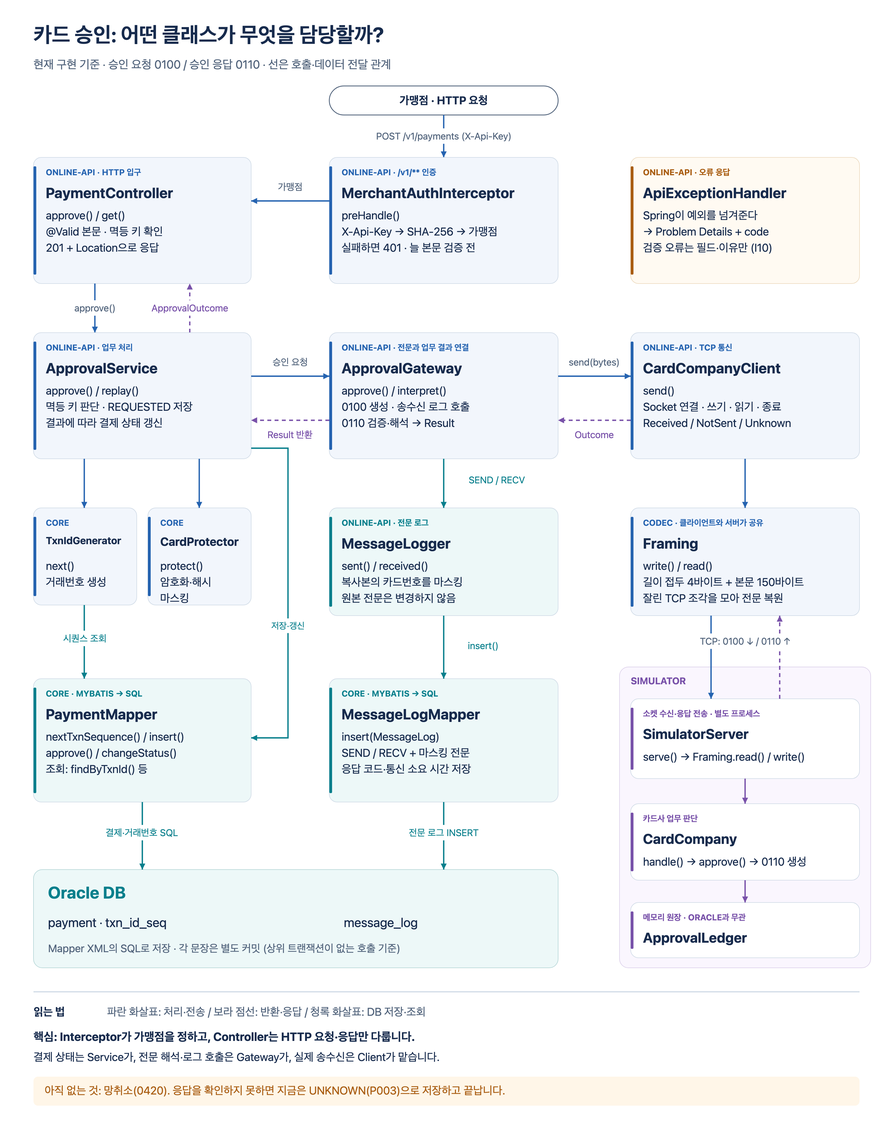
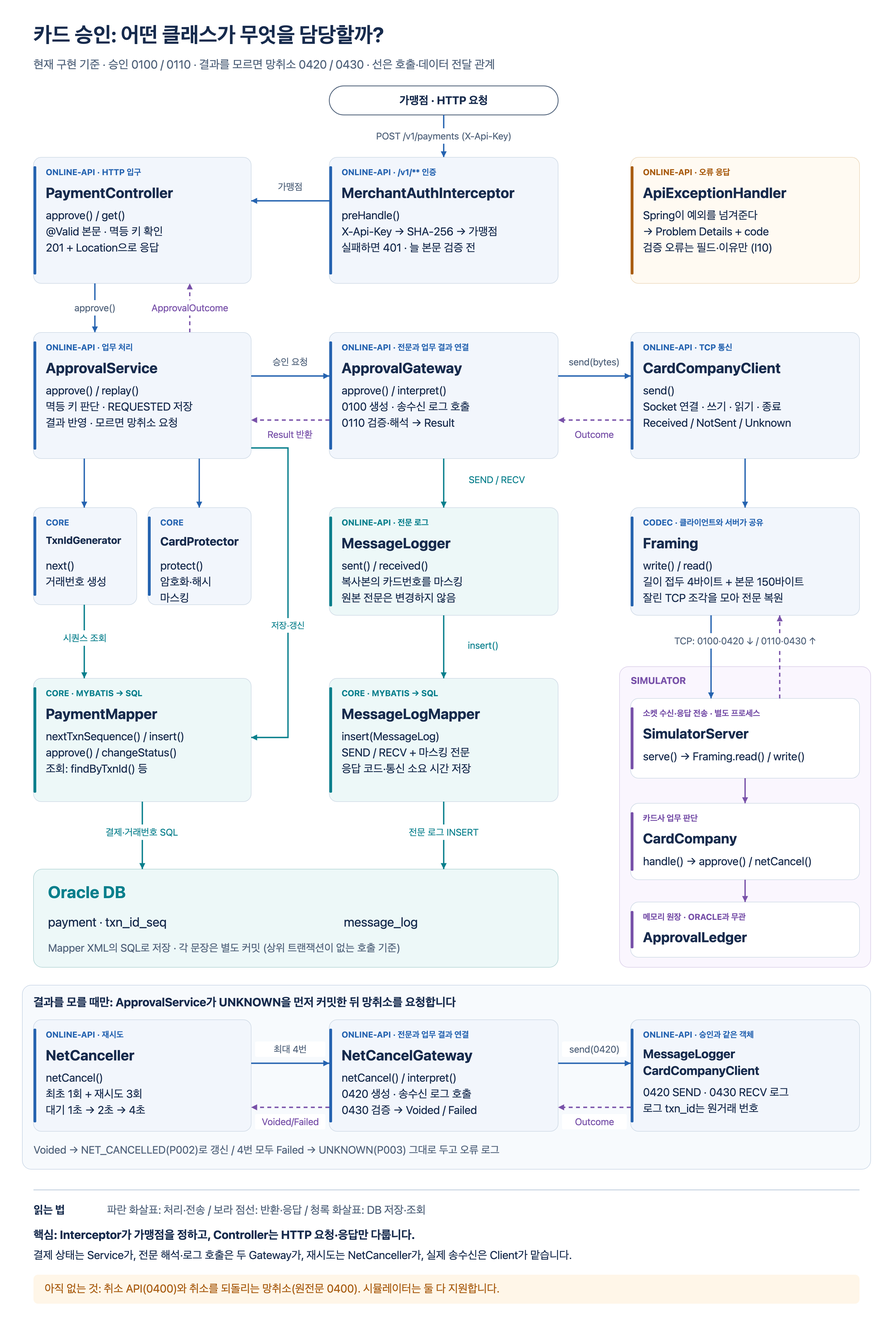
docs(online-api): document approval net cancel flow
승인 응답을 확인하지 못한 거래가 `UNKNOWN` 저장 후 망취소를 통해 `NET_CANCELLED`로 정리되는 흐름을 문서와 다이어그램에 반영합니다.

### 주요 변경사항
1. **망취소 시퀀스 다이어그램 추가**:
   - 타임아웃 승인 케이스에서 `UNKNOWN(P003)` 커밋, 0420 망취소, 0430 검증, `NET_CANCELLED(P002)` 전이까지의 호출 순서를 시각화.
   - 망취소 실패 시 재시도와 최종 `UNKNOWN` 유지 기준을 함께 설명.

2. **승인 클래스 흐름 갱신**:
   - `ApprovalService`, `NetCanceller`, `NetCancelGateway`, `CardCompanyClient`, `MessageLogger`의 책임 분리를 다이어그램에 반영.
   - 승인 전문뿐 아니라 망취소 전문까지 포함한 현재 아키텍처 기준으로 수정.

3. **승인 흐름 문서 보강**:
   - 멱등 재요청, 연결 실패, 타임아웃, 망취소 진행 중 상태가 API 응답에 어떻게 드러나는지 정리.
   - 로컬 망취소 재시도 소요 시간과 테스트 기준을 실제 동작에 맞게 보완합니다.

diff --git a/docs/05-approval-flow.md b/docs/05-approval-flow.md
@@ -1,6 +1,6 @@
 # 승인 요청·응답의 클래스 흐름
 
-현재 구현된 **승인 API(`POST /v1/payments`) → 0100 승인 요청 → 0110 승인 응답**을 기준으로 정리한다. 클래스 연결도는 책임의 분리를, 시퀀스 다이어그램은 호출 순서를 보여 준다. HTTP 계약과 설계 이유는 [03-api.md](03-api.md)에 있다.
+현재 구현된 **승인 API(`POST /v1/payments`) → 0100 승인 요청 → 0110 승인 응답**과, 응답을 확인하지 못했을 때의 **0420 망취소 → 0430 망취소 응답**을 정리한다. 클래스 연결도는 책임의 분리를, 두 시퀀스 다이어그램은 정상 승인과 망취소의 호출 순서를 보여 준다. HTTP 계약과 설계 이유는 [03-api.md](03-api.md)에 있다.
 
 ## 클래스 연결도
 
@@ -14,18 +14,20 @@
 | [MerchantMapper](../core/src/main/java/io/github/kkw855/settlement/core/merchant/MerchantMapper.java) | `findByApiKeyHash()`로 API 키 해시에 맞는 가맹점을 조회한다. 해시는 [ApiKeys](../core/src/main/java/io/github/kkw855/settlement/core/merchant/ApiKeys.java)가 만든다. |
 | [PaymentController](../online-api/src/main/java/io/github/kkw855/settlement/online/payment/PaymentController.java) | 본문([ApprovePaymentRequest](../online-api/src/main/java/io/github/kkw855/settlement/online/payment/ApprovePaymentRequest.java))을 `@Valid`로 검증하고 `Idempotency-Key`를 확인한 뒤 서비스를 부른다. 결과를 [PaymentResponse](../online-api/src/main/java/io/github/kkw855/settlement/online/payment/PaymentResponse.java)로 바꿔 201 + `Location`으로 응답한다. 조회(`GET`)는 [PaymentQueryService](../online-api/src/main/java/io/github/kkw855/settlement/online/payment/PaymentQueryService.java)에 맡긴다. |
 | [ApiExceptionHandler](../online-api/src/main/java/io/github/kkw855/settlement/online/error/ApiExceptionHandler.java) | 예외를 RFC 9457 Problem Details + `code`로 바꾼다. 검증 오류에는 필드명과 이유만 담고 입력값은 담지 않는다 (I10). |
-| [ApprovalService](../online-api/src/main/java/io/github/kkw855/settlement/online/payment/ApprovalService.java) | 요청 검증, 결제 저장, 멱등 처리, 카드사 호출, 최종 상태 반영을 조율한다. |
+| [ApprovalService](../online-api/src/main/java/io/github/kkw855/settlement/online/payment/ApprovalService.java) | 요청 검증, 결제 저장, 멱등 처리, 카드사 호출, 결과 반영을 조율한다. 결과를 모르면 `UNKNOWN`을 먼저 저장하고 망취소를 요청한다. |
 | [TxnIdGenerator](../core/src/main/java/io/github/kkw855/settlement/core/payment/TxnIdGenerator.java) | DB 시퀀스를 받아 거래고유번호를 만든다. |
 | [CardProtector](../core/src/main/java/io/github/kkw855/settlement/core/card/CardProtector.java) | DB에 보관할 카드번호의 암호문·검색용 HMAC·마스킹 값을 만든다. |
 | [PaymentMapper](../core/src/main/java/io/github/kkw855/settlement/core/payment/PaymentMapper.java) | [PaymentMapper.xml](../core/src/main/resources/mapper/PaymentMapper.xml)의 SQL로 Oracle `payment`를 저장·조회·변경한다. |
 | [ApprovalGateway](../online-api/src/main/java/io/github/kkw855/settlement/online/card/ApprovalGateway.java) | 요청 전문을 조립하고 송수신 로그를 호출하며, 수신 전문을 업무 결과로 해석한다. |
+| [NetCanceller](../online-api/src/main/java/io/github/kkw855/settlement/online/card/NetCanceller.java) | 망취소를 최대 4번(최초 1번 + 재시도 3번) 보낸다. 재시도 전 대기는 `card-company.net-cancel-retry-delays`(1초·2초·4초)를 따르고, 원거래가 무효로 확인되면 바로 멈춘다. 기다리는 중에 인터럽트되면 더 보내지 않는다. |
+| [NetCancelGateway](../online-api/src/main/java/io/github/kkw855/settlement/online/card/NetCancelGateway.java) | [NetCancelRequest](../online-api/src/main/java/io/github/kkw855/settlement/online/card/NetCancelRequest.java)로 0420 전문을 조립하고 송수신 로그를 호출하며, 0430을 `Voided`(원거래 무효) 또는 `Failed`(확인하지 못함)로 해석한다. 한 번만 주고받는다. |
 | [CardMessageLayouts](../online-api/src/main/java/io/github/kkw855/settlement/online/card/CardMessageLayouts.java) | PG 쪽 전문 필드의 위치·길이·타입을 정의한다. 응답코드·승인번호의 형식 규칙(`isResponseCode()`, `isApprovalNo()`)도 여기 있다. |
 | [MessageLogger](../online-api/src/main/java/io/github/kkw855/settlement/online/card/MessageLogger.java) | 카드번호를 가린 전문을 `SEND` 또는 `RECV` 로그로 저장하도록 요청한다. 형식이 틀린 응답코드는 `response_code`에 넣지 않는다. |
 | [MessageLogMapper](../core/src/main/java/io/github/kkw855/settlement/core/message/MessageLogMapper.java) | [MessageLogMapper.xml](../core/src/main/resources/mapper/MessageLogMapper.xml)의 SQL로 Oracle `message_log`에 기록한다. |
 | [CardCompanyClient](../online-api/src/main/java/io/github/kkw855/settlement/online/card/CardCompanyClient.java) | 거래마다 소켓을 열고 연결·전송·응답 읽기·종료를 수행한다. |
 | [Framing](../codec/src/main/java/io/github/kkw855/settlement/codec/Framing.java) | TCP 스트림에서 `[ASCII 길이 4바이트][전문 본문]`을 쓰고 읽는다. |
 | [SimulatorServer](../simulator/src/main/java/io/github/kkw855/settlement/simulator/SimulatorServer.java) | 카드사 쪽에서 연결을 받고, 전문을 읽어 업무 로직에 전달한 뒤 응답을 전송한다. |
-| [CardCompany](../simulator/src/main/java/io/github/kkw855/settlement/simulator/CardCompany.java) | 승인·거절을 판단하고 카드사 원장에 기록하며, 응답 본문과 지연 여부를 반환한다. |
+| [CardCompany](../simulator/src/main/java/io/github/kkw855/settlement/simulator/CardCompany.java) | 승인·거절을 판단하고 카드사 원장에 기록하며, 응답 본문과 지연 여부를 반환한다. 0420을 받으면 원장의 원거래를 무효로 만들고 0430으로 답한다 (끝자리 109·119는 일부러 다르게 답한다). |
 | [ApprovalLedger](../simulator/src/main/java/io/github/kkw855/settlement/simulator/ApprovalLedger.java) | 카드사 승인 기록을 메모리 맵에 보관한다. PG의 Oracle DB와는 별개이며 재시작하면 사라진다. |
 
 ## 정상 승인 순서
@@ -46,6 +48,40 @@
 10. Client가 `Outcome.Received(응답 바이트)`를 반환하면 Gateway의 `interpret()`가 전문구분코드·응답코드를 읽어 `RECV` 로그를 기록한다. 그다음 전문구분코드·거래고유번호가 요청과 맞는지, 응답코드와 승인번호의 형식이 맞는지 확인한다 ([02-message-spec.md](02-message-spec.md) 1장의 응답 확인). 정상 응답은 `Result.Approved`가 된다.
 11. 서비스가 `PaymentMapper.approve()`로 `REQUESTED → APPROVED`를 반영한다. 승인번호·승인일시·결과코드를 저장하고, 갱신한 결제를 다시 읽어 `ApprovalOutcome.Processed`로 반환한다.
 12. 컨트롤러가 결제를 `PaymentResponse`로 바꿔 201 Created와 `Location: /v1/payments/{txnId}`로 응답한다. 카드번호는 마스킹 값만 나간다.
+
+## 응답을 확인하지 못하면: 망취소
+
+![망취소 시퀀스](diagrams/approval-net-cancel-sequence.png)
+
+[확대 가능한 SVG](diagrams/approval-net-cancel-sequence.svg)
+
+금액 끝자리 009(카드사가 승인한 뒤 응답을 5초 늦게 보낸다)로 따라간다. 위 1~9번(`REQUESTED` 저장, 0100 `SEND` 로그와 전송, 카드사의 승인·원장 기록)까지는 정상 승인과 같다. 카드사가 0110을 5초 뒤에야 보낼 뿐이다.
+
+1. Client가 3초 안에 응답을 받지 못해 `Outcome.Unknown`을 반환하고, Gateway는 `Result.Unknown`을 돌려준다. 응답을 읽지 못했으므로 0110 `RECV` 로그는 없다.
+2. 서비스가 `PaymentMapper.changeStatus()`로 `REQUESTED → UNKNOWN`(`P003`)을 먼저 커밋한다. 망취소는 재시도까지 최대 23초 걸린다. 그사이 앱이 멈춰도 결제는 "결과를 모르는 거래"로 남는다 ([00-domain.md](00-domain.md) 4장).
+3. 서비스가 `NetCanceller.netCancel()`에 `NetCancelRequest`(원거래고유번호, 원전문구분코드 `0100`, 가맹점번호, 금액)를 넘긴다.
+4. `NetCancelGateway.netCancel()`이 0420 전문을 만든다. 공통부의 거래고유번호에도 원거래고유번호를 쓴다 ([02-message-spec.md](02-message-spec.md) 3장). `SEND` 로그를 남긴 뒤 `CardCompanyClient.send()`로 보낸다. 거래마다 연결하므로 0100과는 다른 새 연결이다.
+5. 시뮬레이터의 `CardCompany`가 원장에서 원거래를 찾아 무효로 만들고 0430(응답코드 `0000`, 처리구분 `01`)으로 바로 답한다. 0100 응답을 늦추는 중이어도 처리한다. 지연은 `handle()`의 잠금 밖에서 기다리기 때문이다.
+6. Gateway가 0430을 `RECV`로 남긴 뒤 확인한다. 전문구분코드가 `0430`이고, 거래고유번호·원거래고유번호가 보낸 값과 같고, 응답코드가 `0000`이고, 처리구분이 `01`(취소함)이나 `02`(원거래 없음)이면 `Voided`다. 하나라도 어긋나면 `Failed`다 ([02-message-spec.md](02-message-spec.md) 1장의 응답 확인).
+7. `Voided`면 `NetCanceller`는 다시 보내지 않는다. 서비스가 `UNKNOWN → NET_CANCELLED`(`P002`)로 바꾸고(`WHERE status = 'UNKNOWN'`), 갱신한 결제를 다시 읽어 반환한다. 응답은 201이고, 가맹점에는 실패다.
+
+망취소가 실패하면 이렇게 된다. [NetCancellerTest](../online-api/src/test/java/io/github/kkw855/settlement/online/card/NetCancellerTest.java)와 [V14 테스트](../online-api/src/test/java/io/github/kkw855/settlement/online/payment/ApprovalServiceTest.java)가 확인한다.
+
+- `Failed`면 1초, 2초, 4초를 기다렸다가 같은 0420을 다시 보낸다. 최초 1번과 재시도 3번, 최대 4번이다. 설정은 대기 시간의 목록이라 목록의 길이가 곧 재시도 횟수다.
+- 연결 실패(`NotSent`)도 다시 보낸다. 0100이 나가지 못했으면 카드사에 거래가 없으므로 `DECLINED`로 끝낸다. 0420이 나가지 못했을 때는 원거래의 결과가 여전히 확정되지 않았다.
+- 4번 모두 `Failed`면 오류 로그를 남기고 `UNKNOWN`(`P003`)으로 둔다. 가맹점은 실패로 처리하고, 최종 결과는 조회 API로 확인한다 ([03-api.md](03-api.md) 3장).
+- 기다리는 중에 인터럽트되면 더 보내지 않고 인터럽트 상태를 되살린다. 결제는 `UNKNOWN`으로 남는다.
+
+로컬에서 실제 시뮬레이터로 잰 결과다 (2026-11-24, [06-local-run.md](06-local-run.md) 4장).
+
+| 끝자리 | 시뮬레이터가 0420에 하는 일 | PG 결과 | 걸린 시간 |
+|---|---|---|---|
+| `009` | `01`로 답하고 원거래를 무효로 만든다 | `NET_CANCELLED` / `P002` | 3.0초 |
+| `109` | `01`로 답하지만 실제로는 취소하지 않는다 | `NET_CANCELLED` / `P002` | 3.0초 |
+| `119` | 답하지 않는다 | `UNKNOWN` / `P003` | 22.1초 |
+
+- 119는 0100 응답 대기 3초 + 0420 4번 × 응답 대기 3초 + 재시도 대기 (1 + 2 + 4)초 = 22초다. 응답 시간 상한 27초([03-api.md](03-api.md) 4장)는 여기에 연결 타임아웃 1초 × 5번을 더한 값이다. 로컬에서는 연결이 바로 되므로 그만큼 짧다.
+- 109는 PG만 보면 009와 구별되지 않는다. 다음 날 매입 파일과 대사할 때 `STATUS_MISMATCH`로 드러난다 ([02-message-spec.md](02-message-spec.md) 4장).
 
 ## 검사 순서: 저장하기 전에 거절한다
 
@@ -68,21 +104,23 @@
 
 `CardCompanyClient.Outcome`은 **네트워크에서 무엇을 확인했는지**, `ApprovalGateway.Result`는 **응답을 해석한 결과**, `Payment.status`는 **PG가 DB에 남긴 결제 상태**다.
 
-| Client의 Outcome | Gateway의 Result | 저장할 Payment 상태·결과코드 |
-|---|---|---|
-| `Received` + 요청과 일치하는 정상 승인 응답 | `Approved` | `APPROVED` / `0000` |
-| `Received` + 요청과 일치하는 거절 응답 | `Declined` | `DECLINED` / 카드사 응답코드 |
-| `Received` + 불일치·필드 해석 실패·응답코드나 승인번호의 형식 오류 | `Unknown` | `UNKNOWN` / `P003` |
-| 연결 실패로 `NotSent` | `NotSent` | `DECLINED` / `P001` |
-| 연결 후 타임아웃·쓰기/읽기 실패 등으로 `Unknown` | `Unknown` | `UNKNOWN` / `P003` |
+| Client의 Outcome | Gateway의 Result | 먼저 저장하는 상태·결과코드 | 망취소 뒤 |
+|---|---|---|---|
+| `Received` + 요청과 일치하는 정상 승인 응답 | `Approved` | `APPROVED` / `0000` | 망취소 없음 |
+| `Received` + 요청과 일치하는 거절 응답 | `Declined` | `DECLINED` / 카드사 응답코드 | 망취소 없음 |
+| `Received` + 불일치·필드 해석 실패·응답코드나 승인번호의 형식 오류 | `Unknown` | `UNKNOWN` / `P003` | `NET_CANCELLED` / `P002`. 망취소도 실패하면 `UNKNOWN` / `P003` 그대로 |
+| 연결 실패로 `NotSent` | `NotSent` | `DECLINED` / `P001` | 망취소 없음 (카드사에 닿지 않았다) |
+| 연결 후 타임아웃·쓰기/읽기 실패 등으로 `Unknown` | `Unknown` | `UNKNOWN` / `P003` | `NET_CANCELLED` / `P002`. 망취소도 실패하면 `UNKNOWN` / `P003` 그대로 |
 
-`Received`만으로 승인을 뜻하지 않는다. 반대로 PG가 타임아웃이어도 카드사는 이미 승인했을 수 있다. 시뮬레이터도 원장에 승인부터 기록하고 지연 응답을 보낸다. 응답코드가 `0000`이어도 승인번호 형식이 틀리면 `Unknown`이다. 카드사에는 승인이 남아 있지만 PG는 그 승인번호를 저장할 수 없으므로 망취소로 되돌릴 대상이다.
+`Received`만으로 승인을 뜻하지 않는다. 반대로 PG가 타임아웃이어도 카드사는 이미 승인했을 수 있다. 시뮬레이터도 원장에 승인부터 기록하고 지연 응답을 보낸다. 응답코드가 `0000`이어도 승인번호 형식이 틀리면 `Unknown`이다. 카드사에는 승인이 남아 있지만 PG는 그 승인번호를 저장할 수 없으므로 망취소로 되돌린다.
 
 결제 행을 만든 뒤에는 결과가 무엇이든 HTTP 201이다. 성공 여부는 본문의 `status`로 판단한다 ([03-api.md](03-api.md) 1장).
 
 ## 트랜잭션 경계
 
 `PaymentController`와 `ApprovalService`에는 `@Transactional`이 없다. 그래서 HTTP 요청 경로에서는 결제 INSERT, 로그 INSERT, 결과 UPDATE 등 각 Mapper 호출이 개별 커밋되고, 카드사 응답을 기다리는 동안 이 호출 흐름을 감싸는 Spring 트랜잭션이 없다. [V10 테스트](../online-api/src/test/java/io/github/kkw855/settlement/online/payment/ApprovalServiceTest.java)가 그 시점에 `REQUESTED` 행이 별도 연결에서 보이는지 확인한다.
+
+망취소도 같다. `UNKNOWN`은 0420을 보내기 전에 커밋되고, 망취소를 기다리는 동안(최대 23초)에도 트랜잭션이 없다. [V15 테스트](../online-api/src/test/java/io/github/kkw855/settlement/online/payment/ApprovalServiceTest.java)가 0420을 보내는 순간 별도 연결에서 `UNKNOWN`이 보이는지 확인한다.
 
 다른 코드가 트랜잭션을 연 채 서비스를 부르면 이 경계는 달라질 수 있다. 어노테이션이 없다는 이유만으로 기존 트랜잭션이 중단되는 것은 아니다. 또한 결제 저장·로그 저장·카드사 원장 변경 전체가 하나의 원자적 트랜잭션으로 묶이는 구조도 아니다.
 
@@ -93,8 +131,9 @@
 - 카드 해시·금액·할부개월이 다르면 `IDEMPOTENCY_KEY_REUSED` 오류다 (422).
 - 같은 요청이지만 기존 상태가 `REQUESTED`이면 `PAYMENT_IN_PROGRESS` 오류다 (409, `Retry-After: 5`).
 - 그 밖에는 기존 결과를 `ApprovalOutcome.Replayed`로 반환한다. 컨트롤러는 처음과 같은 201 본문에 `Idempotent-Replayed: true`를 붙인다.
+- 망취소 중에 같은 키로 오면 `UNKNOWN`이 이미 커밋되어 있으므로 409가 아니라 `UNKNOWN` / `P003`이 재현된다. 가맹점은 실패로 처리하고, 최종 결과는 조회로 확인한다 ([03-api.md](03-api.md) 3장).
 
-이 경로에서는 Gateway에 진입하지 않으므로 카드사에 다시 보내거나 새로운 송수신 로그를 남기지 않는다. 거래고유번호 생성과 카드 보호 처리는 중복 INSERT 시도 전에 이미 수행된다.
+이 경로에서는 Gateway에 진입하지 않으므로 카드사에 0100이나 0420을 다시 보내지 않고, 새로운 송수신 로그도 남기지 않는다. 거래고유번호 생성과 카드 보호 처리는 중복 INSERT 시도 전에 이미 수행된다.
 
 ## 오류 응답
 
@@ -112,6 +151,8 @@
 - 연결 실패·응답 타임아웃에는 `RECV`가 없다. 응답을 받았어도 길이가 150바이트가 아니거나, 전문구분코드가 숫자가 아니거나, 응답코드를 MS949로 읽을 수 없으면 기록하기 전에 실패하므로 `RECV`가 남지 않는다. 그 뒤의 필드(거래고유번호·승인번호·승인일시)에서 실패하면 `RECV`는 남는다.
 - 응답코드가 숫자 4자리가 아니면 `response_code`는 비우고 원문(`masked_payload`)은 그대로 남긴다. `response_code`는 바이트 단위 `CHAR(4)`라 `거절` 같은 값을 넣으면 저장이 실패한다 (ORA-12899). 원문 컬럼은 문자 단위(`VARCHAR2(200 CHAR)`)라 그대로 들어간다.
 - `elapsedMs`는 Gateway가 Client의 `send()` 호출 전후에 측정한 경과 시간이다. 카드사 내부 처리 시간만을 뜻하지 않는다.
-- Logger는 `Arrays.copyOf()`로 새 배열을 만들고, 0100의 카드번호 가운데 6자리를 `*`로 가린다. 실제 전송에 쓰는 원본 배열은 변경하지 않는다.
+- Logger는 `Arrays.copyOf()`로 새 배열을 만들고, 0100의 카드번호 가운데 6자리를 `*`로 가린다. 실제 전송에 쓰는 원본 배열은 변경하지 않는다. 0420·0430에는 카드번호가 없다.
+- **0420·0430도 원거래의 거래고유번호로 남는다.** 0420 공통부의 거래고유번호에 원거래고유번호를 쓰기 때문이다. 그래서 `txn_id` 하나로 0100부터 0430까지 이어서 볼 수 있다.
+- 끝자리별로 남는 행 (2026-11-24 로컬): 009와 109는 0100 `SEND` → 0420 `SEND` → 0430 `RECV`(`0000`) 3행이다. 119는 0100 `SEND` 1행과 0420 `SEND` 4행뿐이고 `RECV`는 없다. 0420 `SEND` 사이의 간격(약 4초·5초·7초)은 응답 대기 3초에 재시도 대기 1·2·4초를 더한 값이다.
 
-현재 PG의 `Unknown` 처리는 미확정 상태 저장까지다. 망취소 호출은 향후 구현 대상으로 남아 있다. 시뮬레이터는 0400 취소와 0420 망취소도 지원하지만, 이 문서와 두 다이어그램은 승인 경로에 집중한다.
+취소 API(`POST /v1/payments/{txnId}/cancel`, 0400)와 취소를 되돌리는 망취소(원전문구분코드 `0400`)는 아직 구현하지 않았다. 시뮬레이터는 둘 다 지원한다. 구현할 때는 `NetCanceller`를 그대로 쓰고 원전문구분코드만 `0400`으로 넘긴다.

diff --git a/docs/06-local-run.md b/docs/06-local-run.md
@@ -64,18 +64,46 @@ scripts/smoke-test.sh
 | 2 | 멱등 재현 | 1과 같은 키·같은 본문 | 201, 1과 같은 `txnId`·상태, `Idempotent-Replayed: true` |
 | 3 | 조회 | `GET /v1/payments/{txnId}` | 200, `cardMasked` = `411111******1111` |
 | 4 | 카드사 거절 | 10,001원 (끝자리 001) | 201 `DECLINED` / `1001` |
-| 5 | 카드사 응답 지연 | 10,009원 (끝자리 009) | 201 `UNKNOWN` / `P003` |
+| 5 | 카드사 응답 지연 → 망취소 | 10,009원 (끝자리 009) | 201 `NET_CANCELLED` / `P002` |
 | 6 | 인증 실패 | 틀린 API 키 | 401 `UNAUTHORIZED` |
 | 7 | 소수 금액 | `10000.5` | 400 `VALIDATION_FAILED` |
 | 8 | 할부 제한 | 10,000원, 3개월 | 422 `INSTALLMENT_NOT_ALLOWED` |
 | 9 | 키 재사용 | 1과 같은 키, 20,000원 | 422 `IDEMPOTENCY_KEY_REUSED` |
 
 - 모두 맞으면 `ok` 9줄이 나오고 종료 코드는 0이다. 하나라도 틀리면 `FAIL` 줄에 실제 응답을 찍고 종료 코드 1로 끝난다. 그래서 CI나 다른 스크립트에서도 그대로 쓸 수 있다.
-- 4초쯤 걸린다 (2026-11-16 확인). 그중 3초는 5번에서 PG가 카드사 응답을 기다리는 시간(read timeout)이다. 시뮬레이터는 5초 뒤에야 응답한다.
-- 5번은 망취소를 구현하기 전의 결과다. 망취소를 붙이면 `NET_CANCELLED` / `P002`가 맞다 ([03-api.md](03-api.md) 2장). 그때 스크립트의 기대값도 바꾼다.
+- 3~4초 걸린다 (2026-11-24 확인: 3.4초). 그중 3초는 5번에서 PG가 카드사 응답을 기다리는 시간(read timeout)이다. 시뮬레이터는 5초 뒤에야 응답한다. 이어서 보내는 망취소(0420)에는 바로 답(0430)이 온다.
+- 5번은 결과를 모르는 거래를 망취소로 정리한 결과다. PG는 `UNKNOWN`을 먼저 저장하고 0420을 보낸다. 시뮬레이터가 원장의 승인을 무효로 만들고 0430으로 답하면 `NET_CANCELLED`로 바꾼다 ([05-approval-flow.md](05-approval-flow.md)).
+- 5번이 `UNKNOWN` / `P003`으로 FAIL이고 20초 넘게 걸렸다면 망취소가 4번 모두 실패한 것이다. 승인 API 로그의 `망취소 실패` 줄에 이유가 남는다.
 - 멱등 키는 DB에 영구 보관되므로 실행마다 `uuidgen`으로 새 키를 만든다. 결제는 실행마다 3건(1·4·5번)씩 쌓인다.
 - 다른 주소로 띄웠으면 `BASE_URL=http://localhost:18080 scripts/smoke-test.sh`처럼 넘긴다.
 - 금액 끝자리 규칙은 [02-message-spec.md](02-message-spec.md) 4장에 있다.
+
+### 망취소가 끝까지 실패하는 경우 (끝자리 119)
+
+스크립트에는 넣지 않았다. 22초가 걸리고, 재시도 횟수와 대기 시간은 단위 테스트([NetCancellerTest](../online-api/src/test/java/io/github/kkw855/settlement/online/card/NetCancellerTest.java) R3, [ApprovalServiceTest](../online-api/src/test/java/io/github/kkw855/settlement/online/payment/ApprovalServiceTest.java) V14)가 이미 확인한다. 직접 보려면 3장대로 띄운 상태에서 프로젝트 루트에서 실행한다.
+
+```bash
+time (curl -sS -X POST http://localhost:8080/v1/payments \
+  -H "X-Api-Key: $(sed -n 's/^LOCAL_MERCHANT_API_KEY=//p' .env)" \
+  -H "Idempotency-Key: $(uuidgen)" -H 'Content-Type: application/json' \
+  -d '{"cardNumber":"4111111111111111","cardExpiry":"2812","installmentMonths":0,"amount":10119}' | jq -c '{txnId, status, result}')
+```
+
+- 22초쯤 뒤 `UNKNOWN` / `P003`이 나온다 (2026-11-24 확인). 0100 응답 대기 3초 + 0420 4번 × 응답 대기 3초 + 재시도 대기 (1 + 2 + 4)초 = 22초다.
+- 승인 API 로그에는 `망취소 실패. 1000ms 뒤 다시 보낸다` WARN이 1000ms·2000ms·4000ms로 3줄, 마지막에 `망취소를 확인하지 못했다. UNKNOWN으로 남긴다` ERROR가 1줄 남는다.
+- `message_log`에는 0100 `SEND` 1행과 0420 `SEND` 4행이 남고 `RECV`는 없다. 가장 최근의 119 결제를 아래처럼 조회한다.
+
+```bash
+docker compose exec -T oracle bash -c 'sqlplus -s "$APP_USER/$APP_USER_PASSWORD@//localhost/FREEPDB1"' <<'SQL'
+SET PAGESIZE 50 FEEDBACK OFF
+COLUMN msg_type FORMAT A8
+SELECT msg_type, direction, response_code, elapsed_ms FROM message_log
+ WHERE txn_id = (SELECT MAX(txn_id) FROM payment WHERE amount = 10119)
+ ORDER BY log_id;
+SQL
+```
+
+끝자리 109는 PG에서 5번과 같은 `NET_CANCELLED` / `P002`다 (3.0초). 시뮬레이터가 실제로는 취소하지 않은 것은 다음 날 대사에서 드러난다 (Phase 3).
 
 ## 5. 통합 테스트와 무엇이 다른가
 
@@ -86,9 +114,9 @@ scripts/smoke-test.sh
 | DB | Testcontainers가 띄운 Oracle | compose Oracle |
 | HTTP | MockMvc (서블릿 컨테이너 없이 호출) | 실제 Tomcat에 curl |
 | 카드사 | `CardCompanyClient`를 Mockito로 대신한다 | 시뮬레이터 프로세스와 실제 TCP |
-| 설정 | 테스트 전용 키 (`IntegrationTest`) | `.env`, `local` 프로필, bootRun 설정 |
+| 설정 | 테스트 전용 키, 망취소 대기 0초 (`IntegrationTest`) | `.env`, `local` 프로필, bootRun 설정 |
 
-PG([CardMessageLayouts](../online-api/src/main/java/io/github/kkw855/settlement/online/card/CardMessageLayouts.java))와 시뮬레이터([MessageLayouts](../simulator/src/main/java/io/github/kkw855/settlement/simulator/MessageLayouts.java))는 전문 정의를 따로 갖는다. 둘이 실제 소켓으로 0100을 보내고 0110을 받는지는 지금은 스모크 테스트에서만 확인한다.
+PG([CardMessageLayouts](../online-api/src/main/java/io/github/kkw855/settlement/online/card/CardMessageLayouts.java))와 시뮬레이터([MessageLayouts](../simulator/src/main/java/io/github/kkw855/settlement/simulator/MessageLayouts.java))는 전문 정의를 따로 갖는다. 둘이 실제 소켓으로 0100·0110과 0420·0430을 주고받는지는 지금은 스모크 테스트에서만 확인한다. 0420·0430은 5번(끝자리 009)이 지나간다.
 
 ## 6. 문제 해결
 

diff --git a/docs/02-message-spec.md b/docs/02-message-spec.md
@@ -181,7 +181,7 @@ PG는 승인·취소 응답(0110, 0410)을 받아도 아래를 모두 만족할 
 
 - 카드번호가 Luhn 검증에 실패하면 `1003`.
 - 매입 파일 생성 시 옵션 `--inject-foreign=N`이면 우리에게 없는 거래 N건을 추가한다 → `CAPTURE_ONLY`.
-- `119`는 망취소 재시도를 끝까지 도는 경로라 테스트가 27초 걸린다. 테스트에서는 타임아웃과 대기 시간을 설정으로 줄인다.
+- `119`는 망취소 재시도를 끝까지 도는 경로라 오래 걸린다. 최악은 27초이고, 로컬에서는 연결이 바로 되므로 22초쯤이다 ([06-local-run.md](06-local-run.md) 4장). 테스트에서는 타임아웃과 대기 시간을 설정으로 줄인다.
 
 **카드사 처리 규칙 (취소·망취소)**
 
